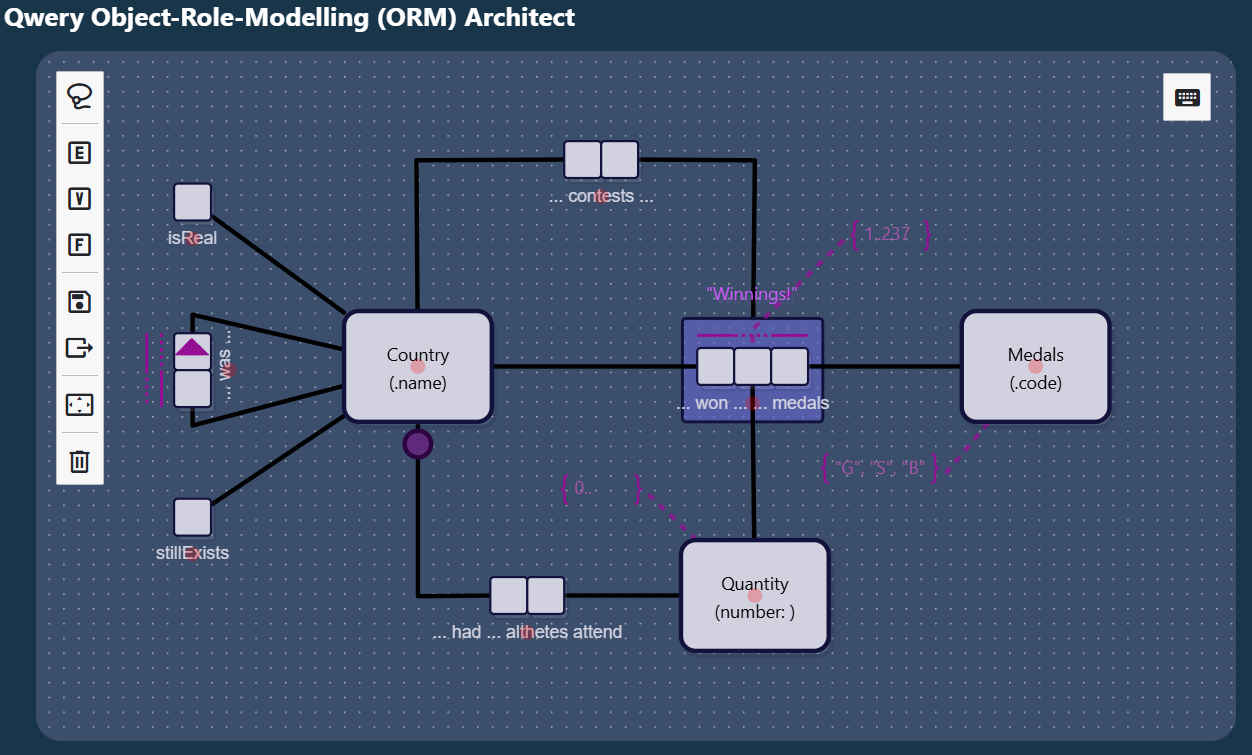
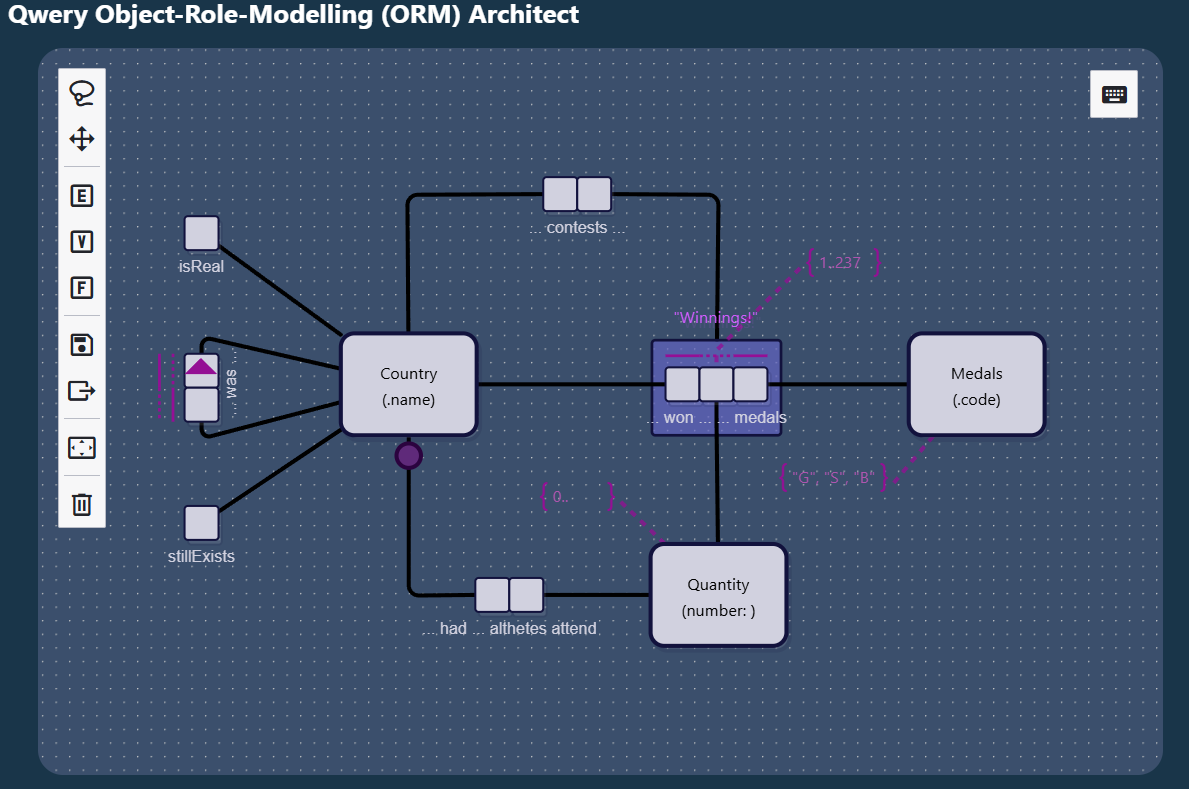
chore(extension): prep for new version

diff --git a/extension/README.md b/extension/README.md
@@ -30,7 +30,7 @@ At this stage, we support the following components of the ORM language:
     - of any desired arity
     - uniqueness constraints over roles
     - derivation labels
-    - objectification of fact
+    - objectification of facts
 - Connections 
     - connections between facts and entities
         - these connections can denote that the relationship is mandatory
@@ -56,21 +56,30 @@ information see [settings](/extension/settings.md).
 
 The following section capture the most recent releases.
 
+### 0.1.9
+
+- Added spacing tool in palette.
+- Added tabbing for selection controls. Also added alt+left and alt+right for 
+  traversing the selection history.
+- Improved highlight roles based on the construction context.
+- Added several helper shortcuts for tools.
+
 ### 0.1.8
 
-Value Constraints for entities and roles of facts can now be specified. 
-Role objectification has also been improved.
-Extension settings can be used to trigger debugging rendering.
-Added help system to describe the desired interaction for complex construction.
+- Value Constraints for entities and roles of facts can now be specified. 
+- Role objectification has also been improved.
+- Extension settings can be used to trigger debugging rendering.
+- Added help system to describe the desired interaction for complex construction.
 
 ### 0.1.4
 
-Several bugfixes have been completed for interactions with the ORM schema.
-Also, a keyboard shortcut menu has been added, toggle the menu with ctrl+k or via the right-hand palette.
-The package now contributes two commands to open a new ORM schema file.
-Some general improvements to how connections between elements are handled
-have been implemented (mostly visual).
+- Several bugfixes have been completed for interactions with the ORM schema.
+- Also, a keyboard shortcut menu has been added, toggle the menu with ctrl+k 
+  or via the right-hand palette.
+- The package now contributes two commands to open a new ORM schema file.
+- Some general improvements to how connections between elements are handled
+  have been implemented (mostly visual).
 
 ### 0.1.0
 
-Initial release of the ORM editor for testing purposes.
+- Initial release of the ORM editor for testing purposes.

diff --git a/README.md b/README.md
@@ -9,6 +9,7 @@ At a high level, the extension allows for the construction of ORM schemas
 and exporting them into a svg. The following schema is constructed to very
 roughly capture how might a travel agency might handle their application data
 for a website.
+
 ![travel_agency_orm](./sampleFiles/travel_agency.svg)
 
 The underlying file structure used to store the schema 
